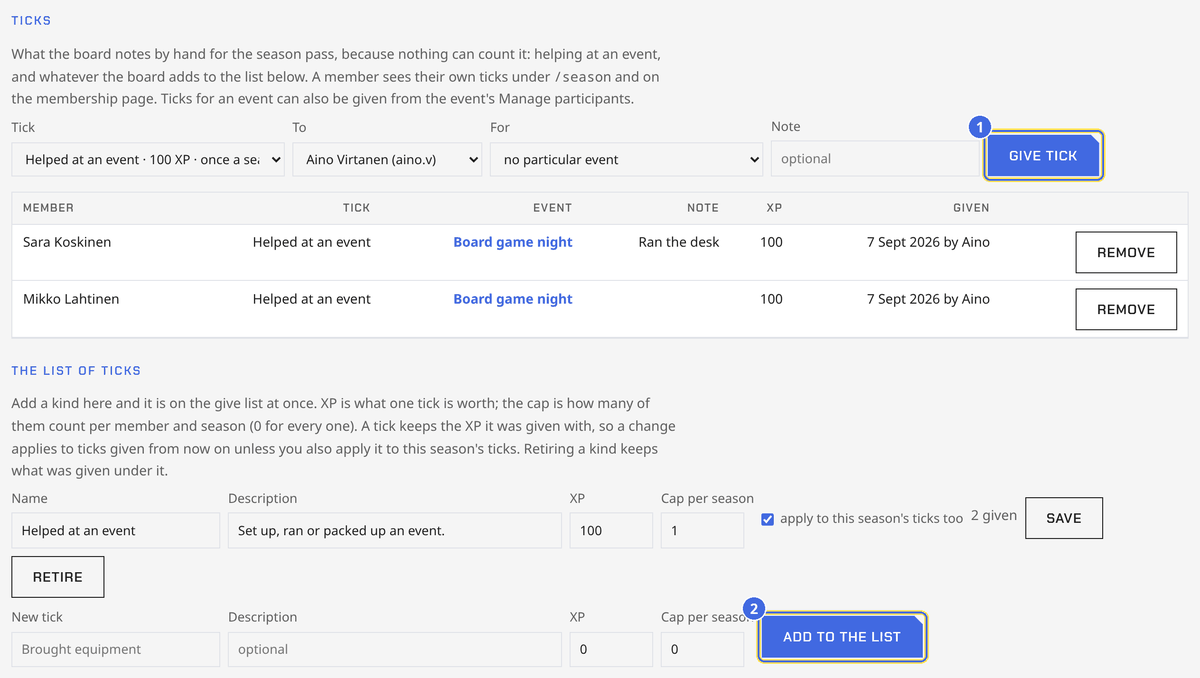
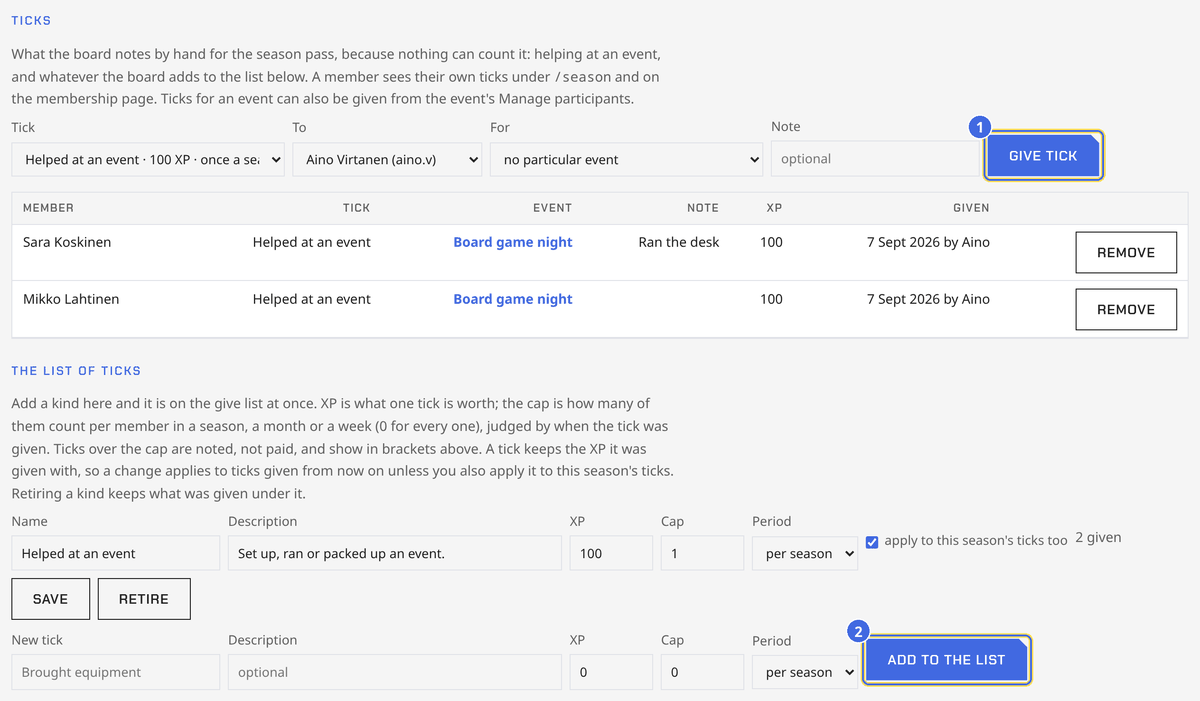
A tick kind's cap counts per season, month or week
The period the cap counts in is a choice on the kind, judged by when
the tick was given, Helsinki time. The counting stays on the pass side:
giving is never refused for a cap; applyCaps walks a member's ticks
oldest first, buckets them by kind and period, and flags the ones over
the cap as noted, not paid. The season page shows those in brackets.
Nothing is stored per period and nothing resets. Migration 0051.

Claude-Session: https://claude.ai/code/session_019m4NkzFyEy3cwdh3cuTmAt

diff --git a/src/lib/ticks.ts b/src/lib/ticks.ts
@@ -8,8 +8,14 @@
 // so last season's totals never move when the board changes a kind.
 import type { D1Database } from '@cloudflare/workers-types';
 import { RuleError } from './db';
-import { seasonStartYear } from './activity';
+import { helsinkiDay, helsinkiYearMonth, seasonStartYear } from './activity';
+import { mondayOf } from './season-stats';
 import { helsinkiToUnix } from './time';
+
+// The period a kind's cap counts in.
+export const TICK_PERIODS = ['season', 'month', 'week'] as const;
+export type TickPeriod = (typeof TICK_PERIODS)[number];
+export const TICK_PERIOD_LABELS: Record<TickPeriod, string> = { season: 'per season', month: 'per month', week: 'per week' };
 
 export interface TickKind {
   id: number;
@@ -17,7 +23,8 @@ export interface TickKind {
   description: string | null;
   sort: number;
   xp: number; // what one tick is worth
-  season_cap: number; // how many count per member and season; 0 = every one
+  season_cap: number; // how many count per member and period; 0 = every one
+  period: TickPeriod; // the period that cap counts in
   retired_at: number | null;
   given: number; // ticks ever given under it
 }
@@ -45,6 +52,7 @@ export interface SeasonTick {
   given_at: number;
   xp: number;
   season_cap: number;
+  period: TickPeriod;
 }
 
 export interface TickKindInput {
@@ -52,6 +60,7 @@ export interface TickKindInput {
   description: unknown;
   xp: unknown;
   season_cap: unknown;
+  period?: unknown; // missing means per season
 }
 
 export interface TickableMember {
@@ -72,7 +81,7 @@ function clean(value: unknown, max: number): string {
 
 // --- the kinds ---------------------------------------------------------------
 
-const KIND_COLUMNS = `k.id, k.name, k.description, k.sort, k.xp, k.season_cap, k.retired_at,
+const KIND_COLUMNS = `k.id, k.name, k.description, k.sort, k.xp, k.season_cap, k.period, k.retired_at,
   (SELECT COUNT(*) FROM ticks t WHERE t.kind_id = k.id) AS given`;
 
 export async function listTickKinds(db: D1Database, includeRetired = false): Promise<TickKind[]> {
@@ -95,16 +104,20 @@ function whole(raw: unknown, max: number): number {
   return n;
 }
 
-function validKind(input: TickKindInput): { name: string; description: string | null; xp: number; season_cap: number } {
+function validKind(input: TickKindInput): { name: string; description: string | null; xp: number; season_cap: number; period: TickPeriod } {
   const name = clean(input.name, TICK_LIMITS.name);
   const description = clean(input.description, TICK_LIMITS.description);
   if (name.length < 2 || name.length > TICK_LIMITS.name) throw new RuleError('bad_input', 'A tick needs a name of 2 to 60 characters.');
   if (description.length > TICK_LIMITS.description) throw new RuleError('bad_input', 'The description is too long.');
+  const periodRaw = String(input.period ?? 'season');
+  const period = TICK_PERIODS.find((p) => p === periodRaw);
+  if (!period) throw new RuleError('bad_input', 'The period is per season, per month or per week.');
   return {
     name,
     description: description === '' ? null : description,
     xp: whole(input.xp, TICK_LIMITS.xp),
     season_cap: whole(input.season_cap, TICK_LIMITS.season_cap),
+    period,
   };
 }
 
@@ -118,12 +131,12 @@ async function nameTaken(db: D1Database, name: string, exceptId: number | null):
 }
 
 export async function addTickKind(db: D1Database, input: TickKindInput, by: string, now: number): Promise<TickKind> {
-  const { name, description, xp, season_cap } = validKind(input);
+  const { name, description, xp, season_cap, period } = validKind(input);
   if (await nameTaken(db, name, null)) throw new RuleError('duplicate', `There is already a tick called ${name}.`);
   const last = await db.prepare('SELECT COALESCE(MAX(sort), 0) AS sort FROM tick_kinds').first<{ sort: number }>();
   const result = await db
-    .prepare('INSERT INTO tick_kinds (name, description, sort, xp, season_cap, created_by, created_at) VALUES (?1, ?2, ?3, ?4, ?5, ?6, ?7)')
-    .bind(name, description, (last?.sort ?? 0) + 1, xp, season_cap, by, now)
+    .prepare('INSERT INTO tick_kinds (name, description, sort, xp, season_cap, period, created_by, created_at) VALUES (?1, ?2, ?3, ?4, ?5, ?6, ?7, ?8)')
+    .bind(name, description, (last?.sort ?? 0) + 1, xp, season_cap, period, by, now)
     .run();
   const id = Number(result.meta.last_row_id);
   return (await getTickKind(db, id))!;
@@ -133,12 +146,12 @@ export async function addTickKind(db: D1Database, input: TickKindInput, by: stri
 // `applySeason` the ticks of that season already given under it follow,
 // for when the numbers are settled after the ticking began.
 export async function saveTickKind(db: D1Database, id: number, input: TickKindInput, applySeason: number | null = null): Promise<TickKind> {
-  const { name, description, xp, season_cap } = validKind(input);
+  const { name, description, xp, season_cap, period } = validKind(input);
   if (!(await getTickKind(db, id))) throw new RuleError('missing', 'No such tick.');
   if (await nameTaken(db, name, id)) throw new RuleError('duplicate', `There is already a tick called ${name}.`);
   await db
-    .prepare('UPDATE tick_kinds SET name = ?2, description = ?3, xp = ?4, season_cap = ?5 WHERE id = ?1')
-    .bind(id, name, description, xp, season_cap)
+    .prepare('UPDATE tick_kinds SET name = ?2, description = ?3, xp = ?4, season_cap = ?5, period = ?6 WHERE id = ?1')
+    .bind(id, name, description, xp, season_cap, period)
     .run();
   if (applySeason !== null) {
     const { from, to } = seasonRange(applySeason);
@@ -254,7 +267,7 @@ export async function memberSeasonTicks(db: D1Database, discordId: string, now: 
   const { from, to } = seasonRange(seasonStartYear(now));
   const { results } = await db
     .prepare(
-      `SELECT t.kind_id, k.name AS kind, e.title AS event, t.given_at, t.xp, k.season_cap
+      `SELECT t.kind_id, k.name AS kind, e.title AS event, t.given_at, t.xp, k.season_cap, k.period
        FROM ticks t
        JOIN tick_kinds k ON k.id = t.kind_id
        JOIN register r ON r.id = t.register_id
@@ -272,23 +285,58 @@ export function tickList(ticks: SeasonTick[]): string {
   return ticks.map((t) => (t.event ? `${t.kind} (${t.event})` : t.kind)).join(' · ');
 }
 
-// The XP a member's season ticks add up to: each tick is worth what it
-// was given with, and a kind with a cap counts only its first ticks of
-// the season (oldest first, the order memberSeasonTicks lists them in).
-export function tickXp(ticks: SeasonTick[]): number {
-  const seen = new Map<number, number>();
-  let total = 0;
-  for (const t of ticks) {
-    const n = (seen.get(t.kind_id) ?? 0) + 1;
-    seen.set(t.kind_id, n);
-    if (t.season_cap === 0 || n <= t.season_cap) total += t.xp;
+// The bucket a tick falls in for its kind's cap: the whole season, the
+// Helsinki month, or the week (by its Monday) it was given in.
+export function periodKey(givenAt: number, period: TickPeriod): string {
+  if (period === 'month') {
+    const { year, month } = helsinkiYearMonth(givenAt);
+    return `${year}-${String(month).padStart(2, '0')}`;
   }
-  return total;
+  if (period === 'week') return mondayOf(helsinkiDay(givenAt));
+  return '';
 }
 
-// "100 XP · once a season" for the pickers and the list.
-export function kindWorth(kind: { xp: number; season_cap: number }): string {
+// Which of a member's ticks count: each tick is worth what it was given
+// with, and a kind with a cap pays only the first N given in each
+// period, oldest first. The counting happens here, on the pass side;
+// giving a tick is never refused for a cap. Rows come back in their
+// original order, flagged.
+export function applyCaps<T extends { kind_id: number; given_at: number }>(
+  ticks: T[],
+  kindOf: (tick: T) => { season_cap: number; period: TickPeriod },
+): (T & { counted: boolean })[] {
+  const order = ticks.map((t, i) => ({ t, i })).sort((a, b) => a.t.given_at - b.t.given_at || a.i - b.i);
+  const seen = new Map<string, number>();
+  const counted = new Array<boolean>(ticks.length);
+  for (const { t, i } of order) {
+    const kind = kindOf(t);
+    const key = `${t.kind_id}:${periodKey(t.given_at, kind.period)}`;
+    const n = (seen.get(key) ?? 0) + 1;
+    seen.set(key, n);
+    counted[i] = kind.season_cap === 0 || n <= kind.season_cap;
+  }
+  return ticks.map((t, i) => ({ ...t, counted: counted[i] }));
+}
+
+export function tickXp(ticks: SeasonTick[]): number {
+  return applyCaps(ticks, (t) => t).reduce((sum, t) => sum + (t.counted ? t.xp : 0), 0);
+}
+
+// The board's list of everyone's ticks, each flagged by its member's caps.
+export function markCounted(rows: TickRow[], kinds: TickKind[]): (TickRow & { counted: boolean })[] {
+  const byKind = new Map(kinds.map((k) => [k.id, k]));
+  const kindOf = (t: TickRow) => byKind.get(t.kind_id) ?? { season_cap: 0, period: 'season' as TickPeriod };
+  const out = new Map<number, boolean>();
+  const members = new Map<number, TickRow[]>();
+  for (const row of rows) members.set(row.register_id, [...(members.get(row.register_id) ?? []), row]);
+  for (const mine of members.values()) for (const t of applyCaps(mine, kindOf)) out.set(t.id, t.counted);
+  return rows.map((t) => ({ ...t, counted: out.get(t.id) ?? true }));
+}
+
+// "100 XP · once a month" for the pickers and the list.
+export function kindWorth(kind: { xp: number; season_cap: number; period: TickPeriod }): string {
   if (kind.xp === 0) return 'no XP yet';
-  const cap = kind.season_cap === 0 ? '' : kind.season_cap === 1 ? ' · once a season' : ` · up to ${kind.season_cap} a season`;
+  const unit = kind.period === 'season' ? 'season' : kind.period;
+  const cap = kind.season_cap === 0 ? '' : kind.season_cap === 1 ? ` · once a ${unit}` : ` · up to ${kind.season_cap} a ${unit}`;
   return `${kind.xp} XP${cap}`;
 }

diff --git a/test/ticks.test.ts b/test/ticks.test.ts
@@ -14,6 +14,9 @@ import {
   tickList,
   tickXp,
   kindWorth,
+  applyCaps,
+  periodKey,
+  markCounted,
 } from '../src/lib/ticks';
 import { RuleError, deleteEvent, eraseRegisterEntry } from '../src/lib/db';
 import { seasonSummary, seasonLines } from '../src/lib/season';
@@ -47,29 +50,35 @@ describe('tick kinds', () => {
   it('starts with helping at an event and lets the board add more', async () => {
     const before = await listTickKinds(env.DB);
     expect(before.map((k) => k.name)).toEqual(['Helped at an event']);
-    expect(before[0]).toMatchObject({ xp: 100, season_cap: 1 });
+    expect(before[0]).toMatchObject({ xp: 100, season_cap: 1, period: 'season' });
     expect(kindWorth(before[0])).toBe('100 XP · once a season');
     const kind = await addTickKind(env.DB, { name: '  Brought  gear ', description: 'Lent a console or a screen.', xp: '50', season_cap: '' }, 'axi', NOW);
-    expect(kind).toMatchObject({ name: 'Brought gear', description: 'Lent a console or a screen.', sort: 2, xp: 50, season_cap: 0, retired_at: null, given: 0 });
+    expect(kind).toMatchObject({ name: 'Brought gear', description: 'Lent a console or a screen.', sort: 2, xp: 50, season_cap: 0, period: 'season', retired_at: null, given: 0 });
     expect(kindWorth(kind)).toBe('50 XP');
-    expect(kindWorth({ xp: 0, season_cap: 0 })).toBe('no XP yet');
-    expect(kindWorth({ xp: 20, season_cap: 3 })).toBe('20 XP · up to 3 a season');
+    expect(kindWorth({ xp: 0, season_cap: 0, period: 'season' })).toBe('no XP yet');
+    expect(kindWorth({ xp: 20, season_cap: 3, period: 'season' })).toBe('20 XP · up to 3 a season');
+    expect(kindWorth({ xp: 20, season_cap: 1, period: 'month' })).toBe('20 XP · once a month');
+    expect(kindWorth({ xp: 20, season_cap: 2, period: 'week' })).toBe('20 XP · up to 2 a week');
+    const monthly = await addTickKind(env.DB, { name: 'Ran a game night', description: '', xp: '40', season_cap: '1', period: 'month' }, 'axi', NOW);
+    expect(monthly).toMatchObject({ period: 'month', season_cap: 1 });
+    await expect(addTickKind(env.DB, { name: 'Bad period', description: '', xp: '', season_cap: '', period: 'day' }, 'axi', NOW)).rejects.toMatchObject({ code: 'bad_input' });
     const blank = { description: '', xp: '', season_cap: '' };
     await expect(addTickKind(env.DB, { ...blank, name: 'brought GEAR' }, 'axi', NOW)).rejects.toMatchObject({ code: 'duplicate' });
     await expect(addTickKind(env.DB, { ...blank, name: 'x' }, 'axi', NOW)).rejects.toMatchObject({ code: 'bad_input' });
     await expect(addTickKind(env.DB, { ...blank, name: 'Bad XP', xp: '1.5' }, 'axi', NOW)).rejects.toMatchObject({ code: 'bad_input' });
     await expect(addTickKind(env.DB, { ...blank, name: 'Bad cap', season_cap: '-1' }, 'axi', NOW)).rejects.toMatchObject({ code: 'bad_input' });
-    const saved = await saveTickKind(env.DB, kind.id, { ...blank, name: 'Brought equipment', xp: '60', season_cap: '2' });
-    expect(saved).toMatchObject({ name: 'Brought equipment', description: null, xp: 60, season_cap: 2 });
+    const saved = await saveTickKind(env.DB, kind.id, { ...blank, name: 'Brought equipment', xp: '60', season_cap: '2', period: 'week' });
+    expect(saved).toMatchObject({ name: 'Brought equipment', description: null, xp: 60, season_cap: 2, period: 'week' });
     await expect(saveTickKind(env.DB, kind.id, { ...blank, name: 'Helped at an event' })).rejects.toMatchObject({ code: 'duplicate' });
     expect(await setTickKindRetired(env.DB, kind.id, true, NOW)).toBe(true);
-    expect((await listTickKinds(env.DB)).map((k) => k.name)).toEqual(['Helped at an event']);
+    expect((await listTickKinds(env.DB)).map((k) => k.name)).toEqual(['Helped at an event', 'Ran a game night']);
     expect((await listTickKinds(env.DB, true)).map((k) => [k.name, k.retired_at])).toEqual([
       ['Helped at an event', null],
       ['Brought equipment', NOW],
+      ['Ran a game night', null],
     ]);
     expect(await setTickKindRetired(env.DB, kind.id, false, NOW)).toBe(true);
-    expect((await listTickKinds(env.DB)).length).toBe(2);
+    expect((await listTickKinds(env.DB)).length).toBe(3);
     expect(await setTickKindRetired(env.DB, 999, true, NOW)).toBe(false);
   });
 });
@@ -107,14 +116,21 @@ describe('giving ticks', () => {
 
     const mine = await memberSeasonTicks(env.DB, AINO, NOW);
     expect(mine).toEqual([
-      { kind_id: helped.id, kind: 'Helped at an event', event: 'Autumn LAN', given_at: NOW, xp: 100, season_cap: 1 },
-      { kind_id: helped.id, kind: 'Helped at an event', event: null, given_at: NOW + 60, xp: 100, season_cap: 1 },
+      { kind_id: helped.id, kind: 'Helped at an event', event: 'Autumn LAN', given_at: NOW, xp: 100, season_cap: 1, period: 'season' },
+      { kind_id: helped.id, kind: 'Helped at an event', event: null, given_at: NOW + 60, xp: 100, season_cap: 1, period: 'season' },
     ]);
     expect(tickList(mine)).toBe('Helped at an event (Autumn LAN) · Helped at an event');
     // Once a season: the second one is noted, not paid.
     expect(tickXp(mine)).toBe(100);
+    expect(applyCaps(mine, (t) => t).map((t) => t.counted)).toEqual([true, false]);
     expect(tickXp(mine.map((t) => ({ ...t, season_cap: 0 })))).toBe(200);
-    expect(tickXp([...mine, { kind_id: 99, kind: 'Other', event: null, given_at: NOW, xp: 30, season_cap: 2 }])).toBe(130);
+    expect(tickXp([...mine, { kind_id: 99, kind: 'Other', event: null, given_at: NOW, xp: 30, season_cap: 2, period: 'season' as const }])).toBe(130);
+    // The board's list flags each member's ticks by their own caps.
+    const flagged = markCounted(await listTicks(env.DB, 2026), await listTickKinds(env.DB, true));
+    expect(flagged.map((t) => [t.event, t.counted])).toEqual([
+      [null, false],
+      ['Autumn LAN', true],
+    ]);
     // A tick keeps the XP it was given with; the season's can be brought along.
     await saveTickKind(env.DB, helped.id, { name: 'Helped at an event', description: '', xp: '150', season_cap: '1' });
     expect((await memberSeasonTicks(env.DB, AINO, NOW)).map((t) => t.xp)).toEqual([100, 100]);
@@ -141,6 +157,35 @@ describe('giving ticks', () => {
     expect(await eraseRegisterEntry(env.DB, aino)).toBe(true);
     expect((await listTicks(env.DB, 2026)).length).toBe(0);
     expect((await listTicks(env.DB, 2025)).length).toBe(0);
+  });
+
+  it('counts a monthly or weekly cap in the period the tick was given', () => {
+    const at = (m: number, d: number, h = 12) => Date.UTC(2026, m - 1, d, h) / 1000;
+    expect(periodKey(at(9, 7), 'season')).toBe('');
+    expect(periodKey(at(9, 7), 'month')).toBe('2026-09');
+    expect(periodKey(at(9, 30, 22), 'month')).toBe('2026-10'); // 01:00 on 1 October in Helsinki
+    expect(periodKey(at(9, 7), 'week')).toBe('2026-09-07');
+    expect(periodKey(at(9, 13, 20), 'week')).toBe('2026-09-07'); // Sunday night, still that week
+    expect(periodKey(at(9, 13, 22), 'week')).toBe('2026-09-14'); // 01:00 Monday in Helsinki
+    const tick = (kind_id: number, given_at: number, xp: number, season_cap: number, period: 'season' | 'month' | 'week') => ({
+      kind_id,
+      kind: 'x',
+      event: null,
+      given_at,
+      xp,
+      season_cap,
+      period,
+    });
+    // Once a month: two in September pay once, October pays again.
+    const monthly = [tick(1, at(9, 3), 40, 1, 'month'), tick(1, at(9, 20), 40, 1, 'month'), tick(1, at(10, 2), 40, 1, 'month')];
+    expect(applyCaps(monthly, (t) => t).map((t) => t.counted)).toEqual([true, false, true]);
+    expect(tickXp(monthly)).toBe(80);
+    // Twice a week, given out of order: the oldest two of the week count.
+    const weekly = [tick(2, at(9, 9), 10, 2, 'week'), tick(2, at(9, 7), 10, 2, 'week'), tick(2, at(9, 8), 10, 2, 'week'), tick(2, at(9, 14), 10, 2, 'week')];
+    expect(applyCaps(weekly, (t) => t).map((t) => t.counted)).toEqual([false, true, true, true]);
+    expect(tickXp(weekly)).toBe(30);
+    // Kinds don't share buckets.
+    expect(tickXp([...monthly, ...weekly])).toBe(110);
   });
 
   it('cuts a season at 1 September, Helsinki time', () => {

diff --git a/src/pages/board/ticks.ts b/src/pages/board/ticks.ts
@@ -34,7 +34,7 @@ export const POST: APIRoute = async ({ request, redirect, locals }) => {
     const n = Number(raw);
     return Number.isInteger(n) && n > 0 ? n : Number.NaN;
   };
-  const kindInput = () => ({ name: form.get('name'), description: form.get('description'), xp: form.get('xp'), season_cap: form.get('season_cap') });
+  const kindInput = () => ({ name: form.get('name'), description: form.get('description'), xp: form.get('xp'), season_cap: form.get('season_cap'), period: form.get('period') ?? 'season' });
 
   try {
     switch (action) {

diff --git a/docs/OPERATIONS.md b/docs/OPERATIONS.md
@@ -870,13 +870,20 @@ on the season page or under an event's Manage participants, both through
 member sees their own under `/season` and on the membership page, this
 season's only: everything is cut at 1 September (`seasonRange`), so last
 season's ticks never count in this one. A kind carries what a tick is
-worth (`xp`) and how many of them count per member and season
-(`season_cap`, 0 = every one); a tick keeps the XP it was given with
-(`ticks.xp`), so a changed kind moves nothing in past seasons, and
-saving a kind with "apply to this season's ticks" brings the current
-season's along for when the numbers land after the ticking began.
-`tickXp` adds a member's season up, caps applied, oldest ticks first.
-The first kind holds the board's outline: 100 XP, once a season.
+worth (`xp`), how many of them count per member (`season_cap`, 0 = every
+one) and the period that cap counts in (`period`: season, month or
+week, judged by when the tick was given, Helsinki time); a tick keeps
+the XP it was given with (`ticks.xp`), so a changed kind moves nothing
+in past seasons, and saving a kind with "apply to this season's ticks"
+brings the current season's along for when the numbers land after the
+ticking began. The counting is on the pass side: giving is never refused
+for a cap; `applyCaps` walks a member's ticks oldest first, groups them
+by kind and period bucket (`periodKey`), and flags the ones past the cap
+as noted, not paid; `tickXp` adds the rest up, and the season page shows
+the flag in brackets (`markCounted`). Nothing is stored per period and
+nothing resets, the same way the monthly voice and Minecraft rules will
+read the per-day counts. The first kind holds the board's outline: 100
+XP, once a season.
 
 **Play time.** For the season pass, `scripts/minecraft/playtime-sync.py`
 (installed as `/usr/local/bin/lahtiag-playtime-sync.py`, run by

diff --git a/docs/BOARD-GUIDE.md b/docs/BOARD-GUIDE.md
@@ -416,16 +416,18 @@ puts it on the page and on Discord.
   event are listed first. Each tick once per event; the board channel
   gets a line. The list of ticks is the board's to keep: Add to the list
   makes a new kind, Retire hides one without losing what was given. Each
-  kind says what a tick is worth in XP and how many count per member and
-  season (0 for every one); a tick keeps the XP it was given with, so
-  when the numbers change, tick "apply to this season's ticks too" to
-  bring this season along. Members see their own ticks, and what they
-  add up to, under `/season` and on the membership page.
+  kind says what a tick is worth in XP and how many count per member in
+  a season, a month or a week (0 for every one), judged by when the tick
+  was given: give as many as you like, the ones over the cap are noted
+  and shown in brackets, not paid. A tick keeps the XP it was given
+  with, so when the numbers change, tick "apply to this season's ticks
+  too" to bring this season along. Members see their own ticks, and what
+  they add up to, under `/season` and on the membership page.
 
 | | |
 |---|---|
 | ![season-ticks](images/site/season-ticks.png) | ![event-ticks](images/site/event-ticks.png) |
-| Ticks on the season page: 1 Give tick, the ticks given this season, and 2 the list of kinds with their XP and cap. | The same under an event's Manage participants, with the people at the event first. |
+| Ticks on the season page: 1 Give tick, the ticks given this season, and 2 the list of kinds with their XP, cap and period. | The same under an event's Manage participants, with the people at the event first. |
 
 - **Your stats.** The membership page shows your events, tournaments and
   wins, with a card; `/profile` in Discord posts the card for everyone.
